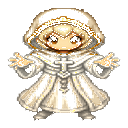
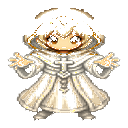
Keep mage and healer undertunics hatless so LOOK shows cloth and face.
Hats stay on helm overlays; facit relocked after the bake.

Changed region(s): [[0.1875, 0.0938, 0.8125, 0.2812], [0.4375, 0.0625, 0.5625, 0.0938], [0.3125, 0.0938, 0.3438, 0.125]]

diff --git a/tool/build_owned_gear_layers.py b/tool/build_owned_gear_layers.py
@@ -519,7 +519,12 @@ def paint_undertunic(
             if family == "rogue" and is_rogue_cloak(rgb):
                 continue
             in_head = ((x - fx) / rx) ** 2 + ((y - fy) / ry) ** 2 <= 1.0
-            if in_head and y <= chin_y + 2 and not is_metal_or_trim(rgb):
+            if (
+                in_head
+                and y <= chin_y + 2
+                and not is_metal_or_trim(rgb)
+                and not is_hat_or_hood(family, rgb)
+            ):
                 op[x, y] = (r, g, b, a)
                 continue
             cloth = tunic if y < mid_y else pants
@@ -552,7 +557,47 @@ def paint_undertunic(
                 f"bald. Add hair to _src/body_idle.png or "
                 f"gear/_authored/, do not draw it here."
             )
+    if family in ("mage", "healer"):
+        strip_equipped_helm_from_body(family, out)
+        strip_equipped_helm_from_body(family, tint_mask)
+    if family == "mage":
+        # Hat leftover that is not on helm_t0 (tall cone / brim crumbs).
+        op = out.load()
+        mp = tint_mask.load()
+        cut = max(0, int(fy - 6))
+        for y in range(0, cut):
+            for x in range(128):
+                r, g, b, a = op[x, y]
+                if a < 16:
+                    continue
+                if is_skin((r, g, b), face):
+                    continue
+                op[x, y] = (0, 0, 0, 0)
+                mp[x, y] = (0, 0, 0, 0)
     return out, tint_mask
+
+
+def strip_equipped_helm_from_body(family: str, body: Image.Image) -> None:
+    """Mage/healer live body must not include the hat — that is the helm overlay."""
+    helm_path = ROOT / family / "gear" / "helm_t0_idle.png"
+    if not helm_path.exists():
+        return
+    helm = Image.open(helm_path).convert("RGBA")
+    hp, bp = helm.load(), body.load()
+    kill: set[tuple[int, int]] = set()
+    for y in range(128):
+        for x in range(128):
+            if hp[x, y][3] >= 40:
+                kill.add((x, y))
+    extra: set[tuple[int, int]] = set()
+    for x, y in kill:
+        for dx, dy in ((-1, 0), (1, 0), (0, -1), (0, 1)):
+            nx, ny = x + dx, y + dy
+            if 0 <= nx < 128 and 0 <= ny < 128:
+                extra.add((nx, ny))
+    for x, y in kill | extra:
+        bp[x, y] = (0, 0, 0, 0)
+
 
 
 def rarefy_cloak(cloak: Image.Image) -> Image.Image:
@@ -985,12 +1030,30 @@ def write_armor_preview(family: str, frames: dict) -> None:
         kit.save(TOOL / "preview_doll_warrior_full.png")
 
 
+def write_bodies_only(families: tuple[str, ...]) -> None:
+    """Rebuild undertunic + tint; keep live gear overlays (hat stays on helm)."""
+    for family in families:
+        for anim in ANIMS:
+            src = load128(ensure_src(family, anim))
+            box = bbox(src)
+            face = sample_face(src, box, family)
+            body, tint_mask = paint_undertunic(src, family, face, box)
+            body.save(ROOT / family / f"body_{anim}.png")
+            tint_mask.save(ROOT / family / f"body_tint_{anim}.png")
+            print("ok", family, anim, "body_only")
+    print("done — bodies only; run paint_race_bodies.py then facit --relock")
+
+
 def main() -> None:
     if "--tint-masks-only" in sys.argv:
         write_tint_masks_only()
         return
     if "--t2-only" in sys.argv:
         write_t2_only()
+        return
+    if "--bodies-only" in sys.argv:
+        wanted = tuple(a for a in sys.argv if a in FAMILIES)
+        write_bodies_only(wanted or FAMILIES)
         return
     shared = ROOT / "gear"
     shared.mkdir(parents=True, exist_ok=True)
